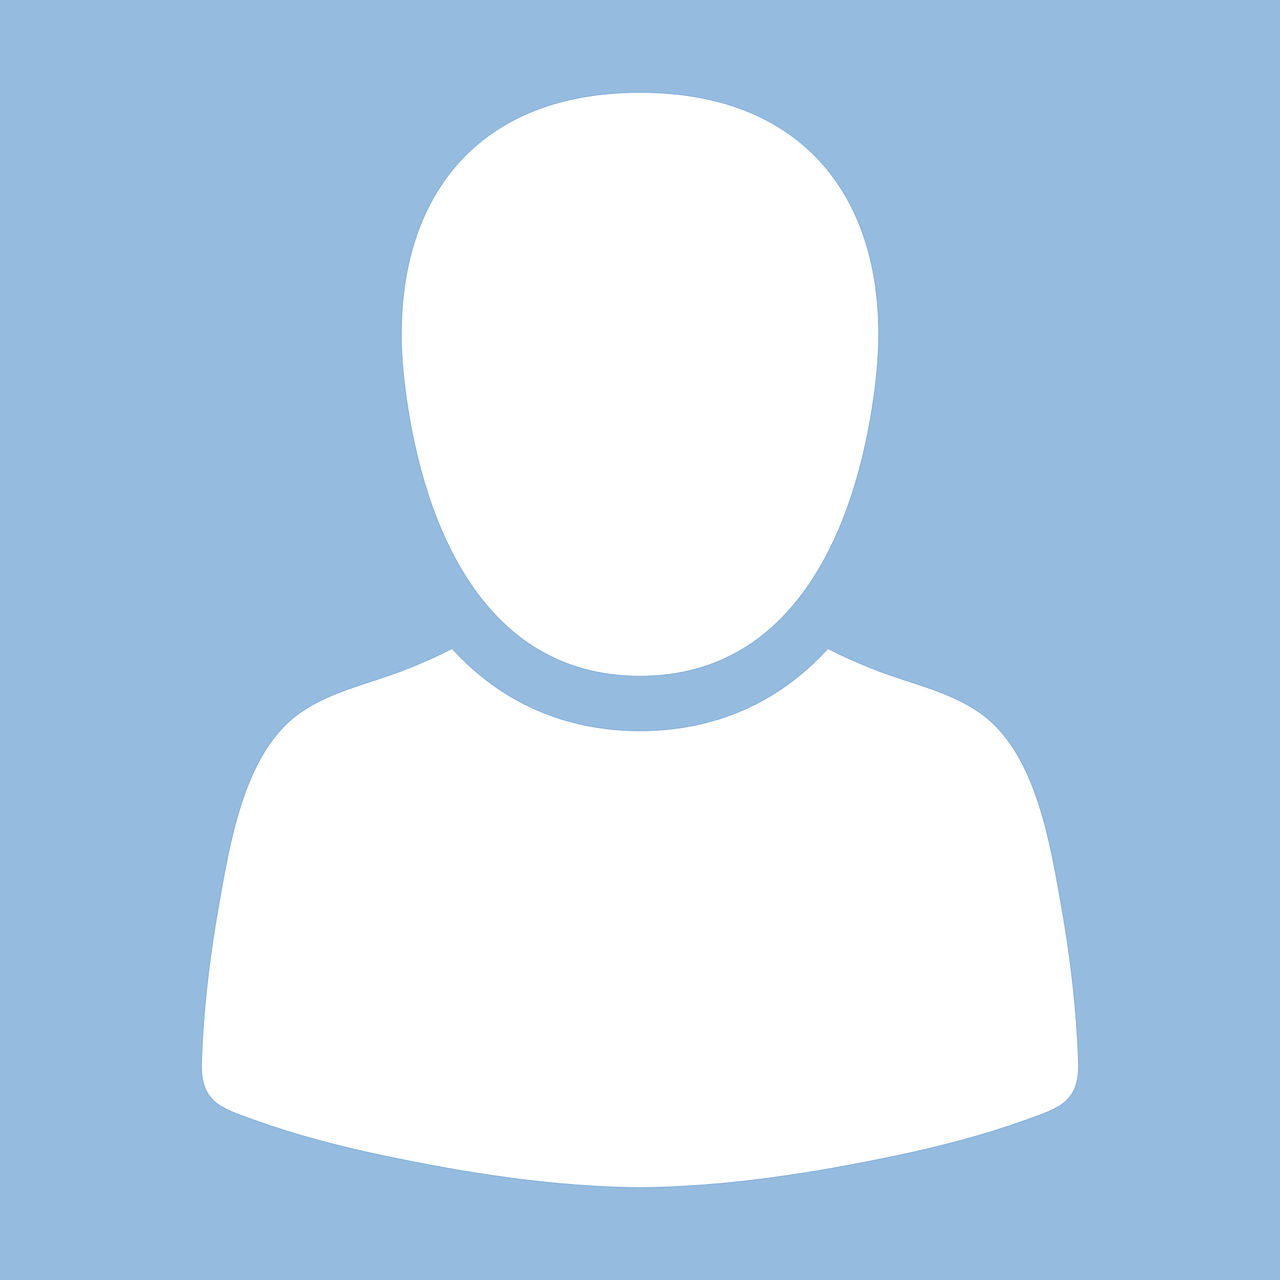
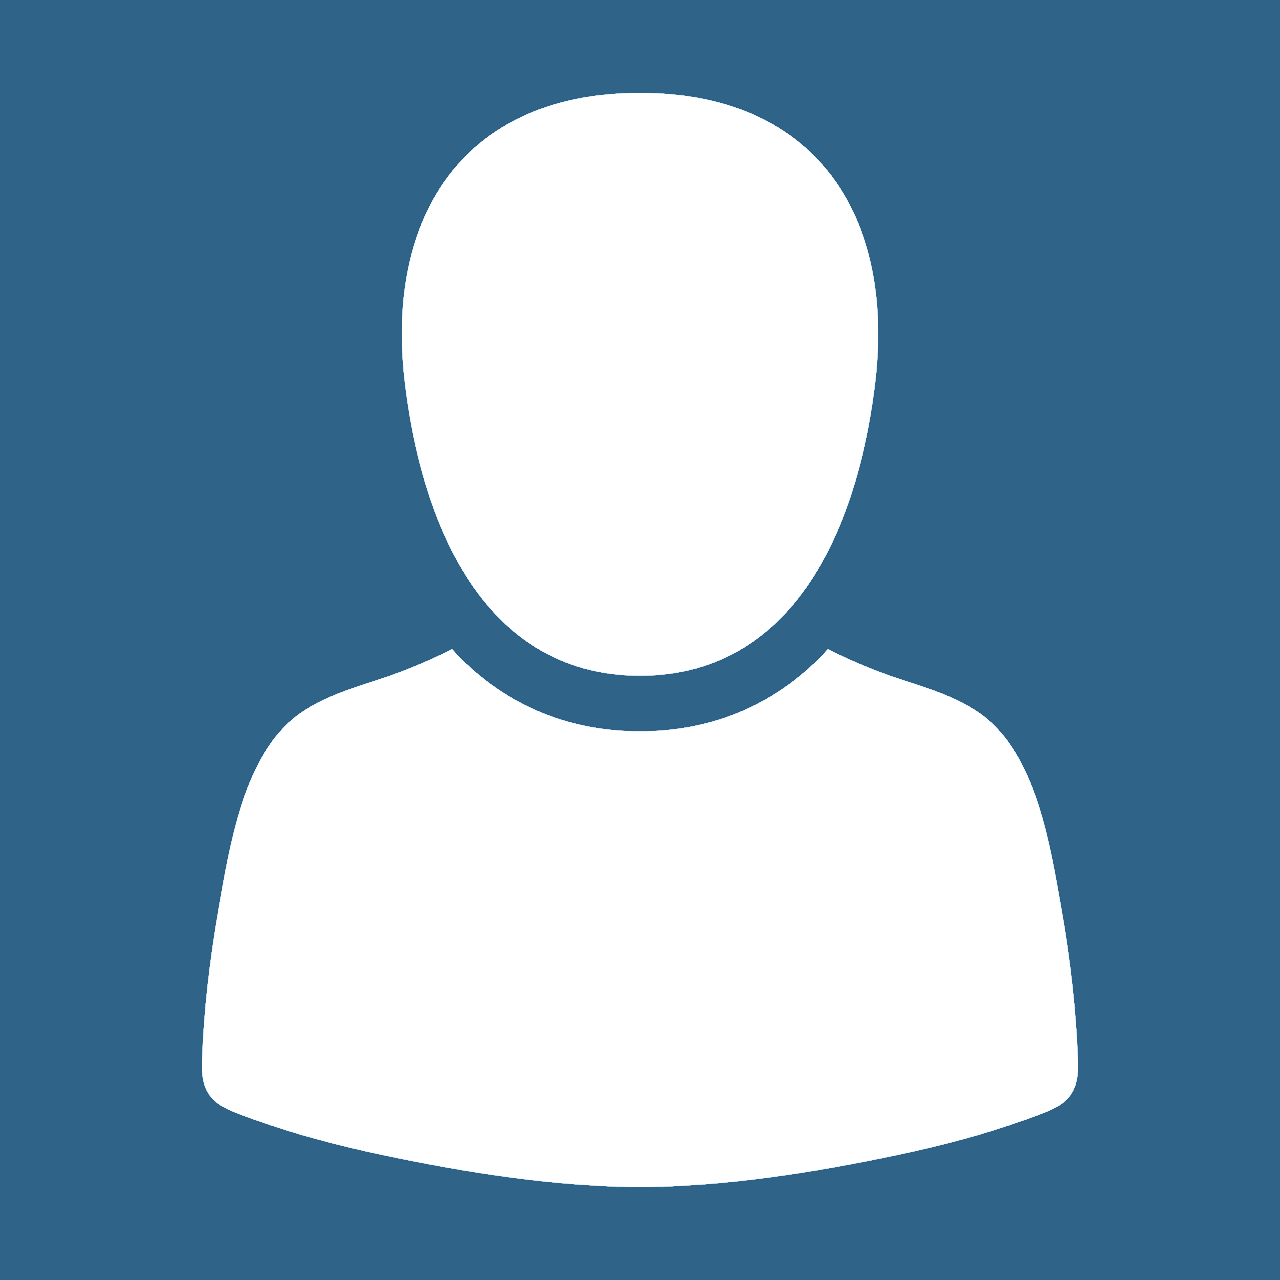
added dummy bg, adjusted profile pic, implemented username variable

diff --git a/src/app/home/home.page.html b/src/app/home/home.page.html
@@ -14,7 +14,7 @@
       />
   </div>
   <div class="nav-kasten3 nav-kasten">
-    <h3>Marc</h3>
+    <h3>{{username}}</h3>
   </div>
   <div class="nav-kasten4 nav-kasten">
     <h2>Mission Green Possible</h2>
@@ -40,7 +40,7 @@
     <div
     (click)="goToModul1()"
     class="card modul1card text-bg-light mb-3"
-    style="max-width: 14rem"
+    style="max-width: 14rem; margin-top: 3%;"
   >
     <div class="card-header">Modul 1</div>
     <div class="card-body">

diff --git a/src/app/home/home.page.scss b/src/app/home/home.page.scss
@@ -79,8 +79,8 @@ main{
 }
 
 .kasten1{
-  // background-image: url(../../assets/images/street.png);
-  background-size: 110% 110%;
+  background-image: url(../../assets/images/wiese.jpg);
+  background-size: 100% 100%;
   padding-top: 4%;
   padding-bottom: 4%;
   padding-left: 6%;

diff --git a/src/app/modul1/modul1.component.ts b/src/app/modul1/modul1.component.ts
@@ -8,6 +8,9 @@ import { YouTubePlayerModule } from '@angular/youtube-player';
   styleUrls: ['./modul1.component.scss'],
 })
 export class Modul1Component implements OnInit {
+
+  username:string = "Name";
+  
   quest1_1: string = 'gold';
   quest1_2: string = 'bronze';
 

diff --git a/src/app/modul2/modul2.component.ts b/src/app/modul2/modul2.component.ts
@@ -8,6 +8,9 @@ import { YouTubePlayerModule } from '@angular/youtube-player';
   styleUrls: ['./modul2.component.scss'],
 })
 export class Modul2Component implements OnInit {
+
+  username:string = "Name";
+  
   quest1_1: string = 'grey';
   quest1_2: string = 'grey';
 

diff --git a/src/app/modul1/modul1.component.html b/src/app/modul1/modul1.component.html
@@ -16,7 +16,7 @@
         />
     </div>
     <div class="nav-kasten3 nav-kasten">
-      <h3>Marc</h3>
+      <h3>{{username}}</h3>
     </div>
     <div class="nav-kasten4 nav-kasten">
       <h2>Mission Green Possible</h2>

diff --git a/src/app/modul2/modul2.component.html b/src/app/modul2/modul2.component.html
@@ -16,7 +16,7 @@
         />
     </div>
     <div class="nav-kasten3 nav-kasten">
-      <h3>Marc</h3>
+      <h3>{{username}}</h3>
     </div>
     <div class="nav-kasten4 nav-kasten">
       <h2>Mission Green Possible</h2>

diff --git a/src/app/home/home.page.ts b/src/app/home/home.page.ts
@@ -9,6 +9,8 @@ import { Global } from '../global';
 })
 export class HomePage implements OnInit {
 
+  username:string = "Name";
+  
   player_rank:number = 1;
   parlament_progress = 30;  
 
